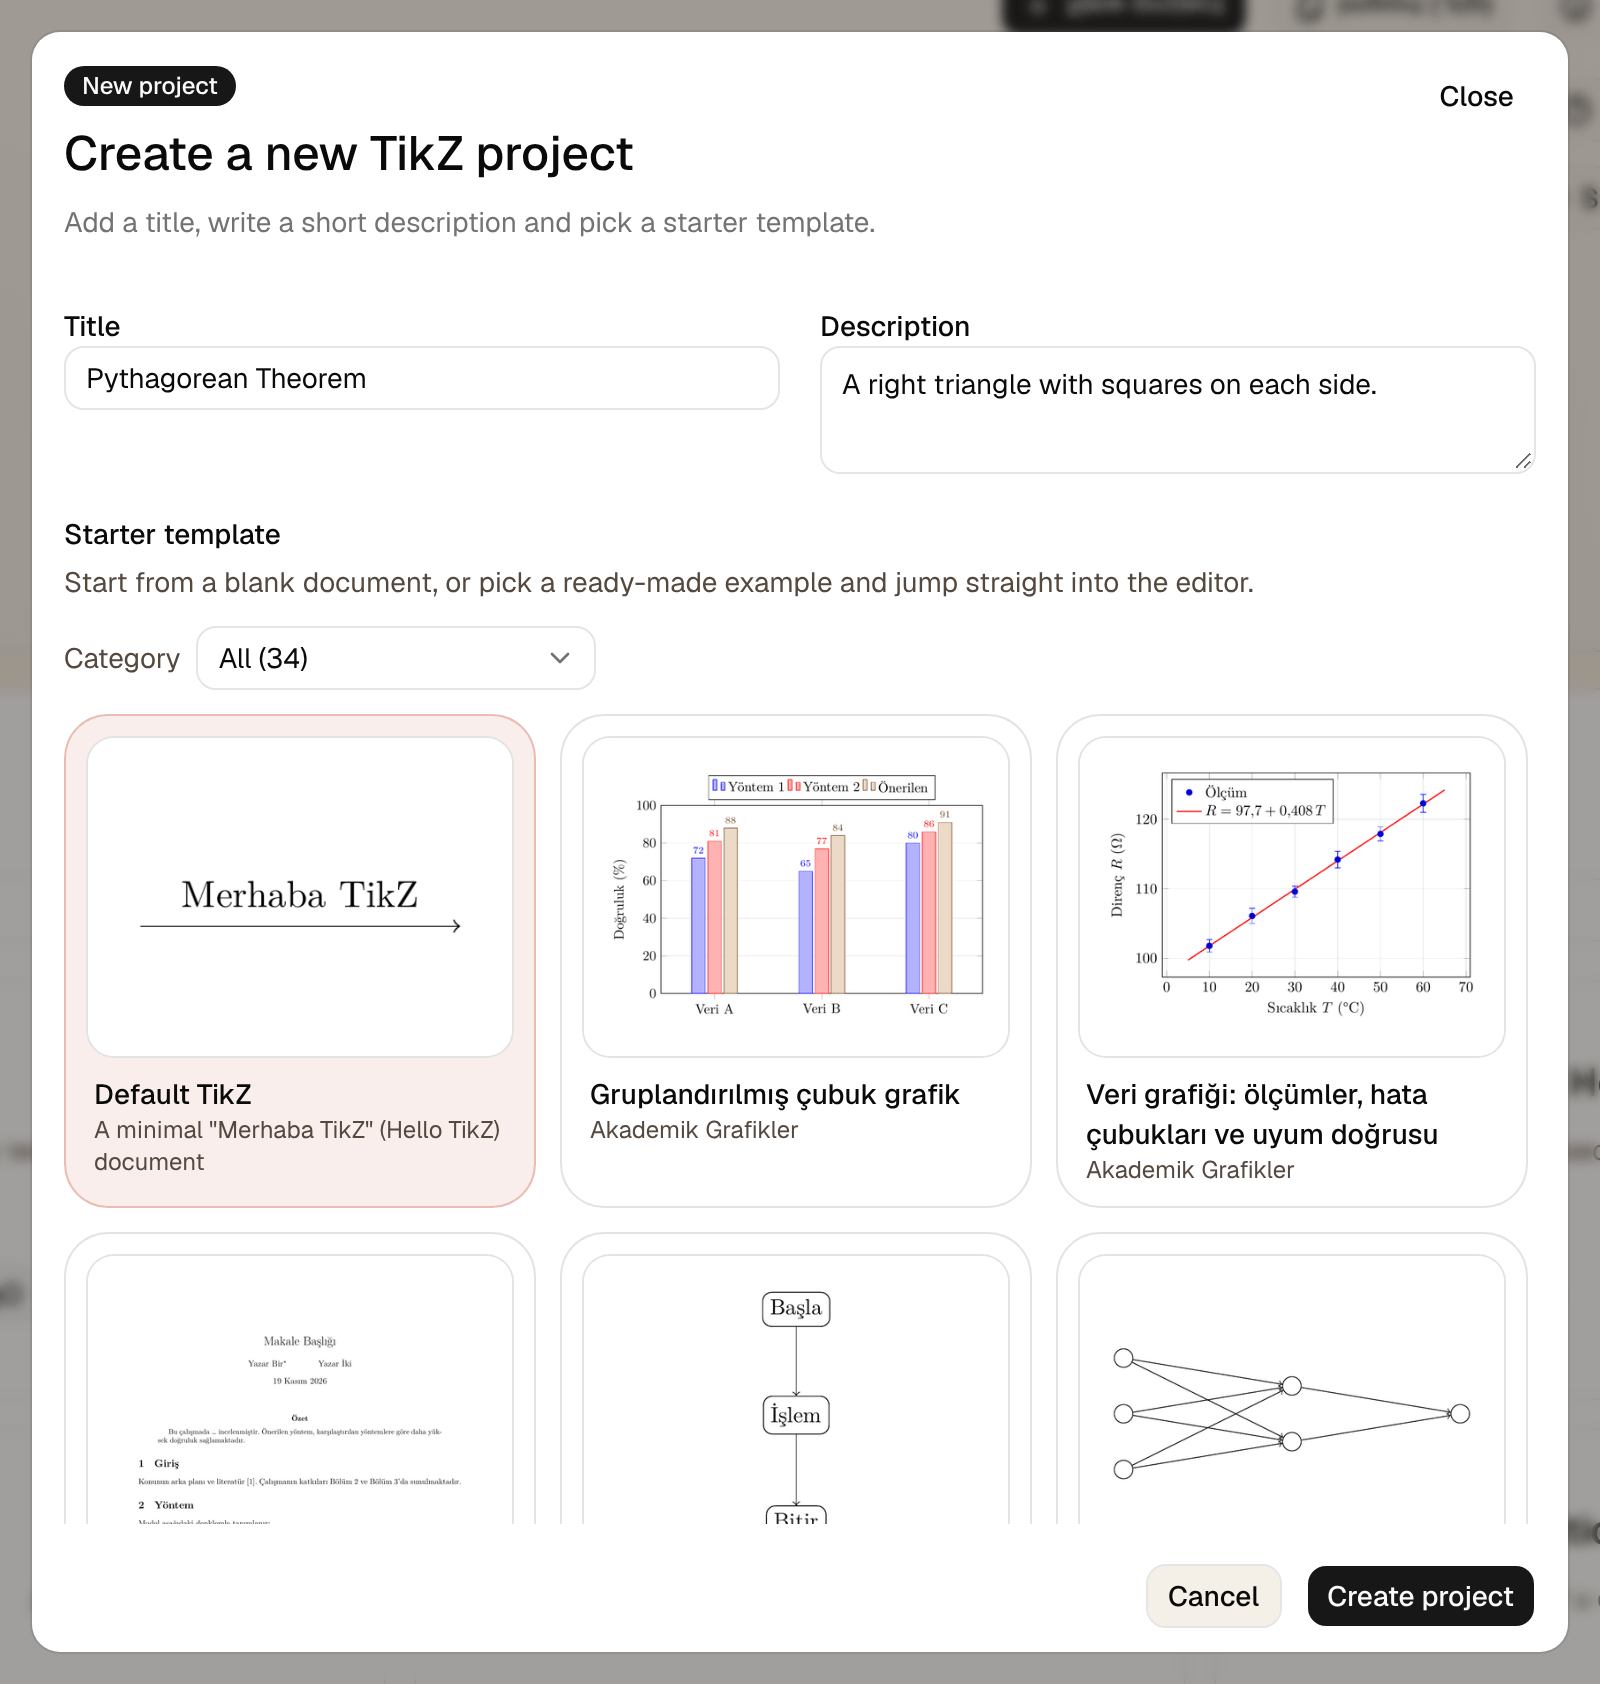
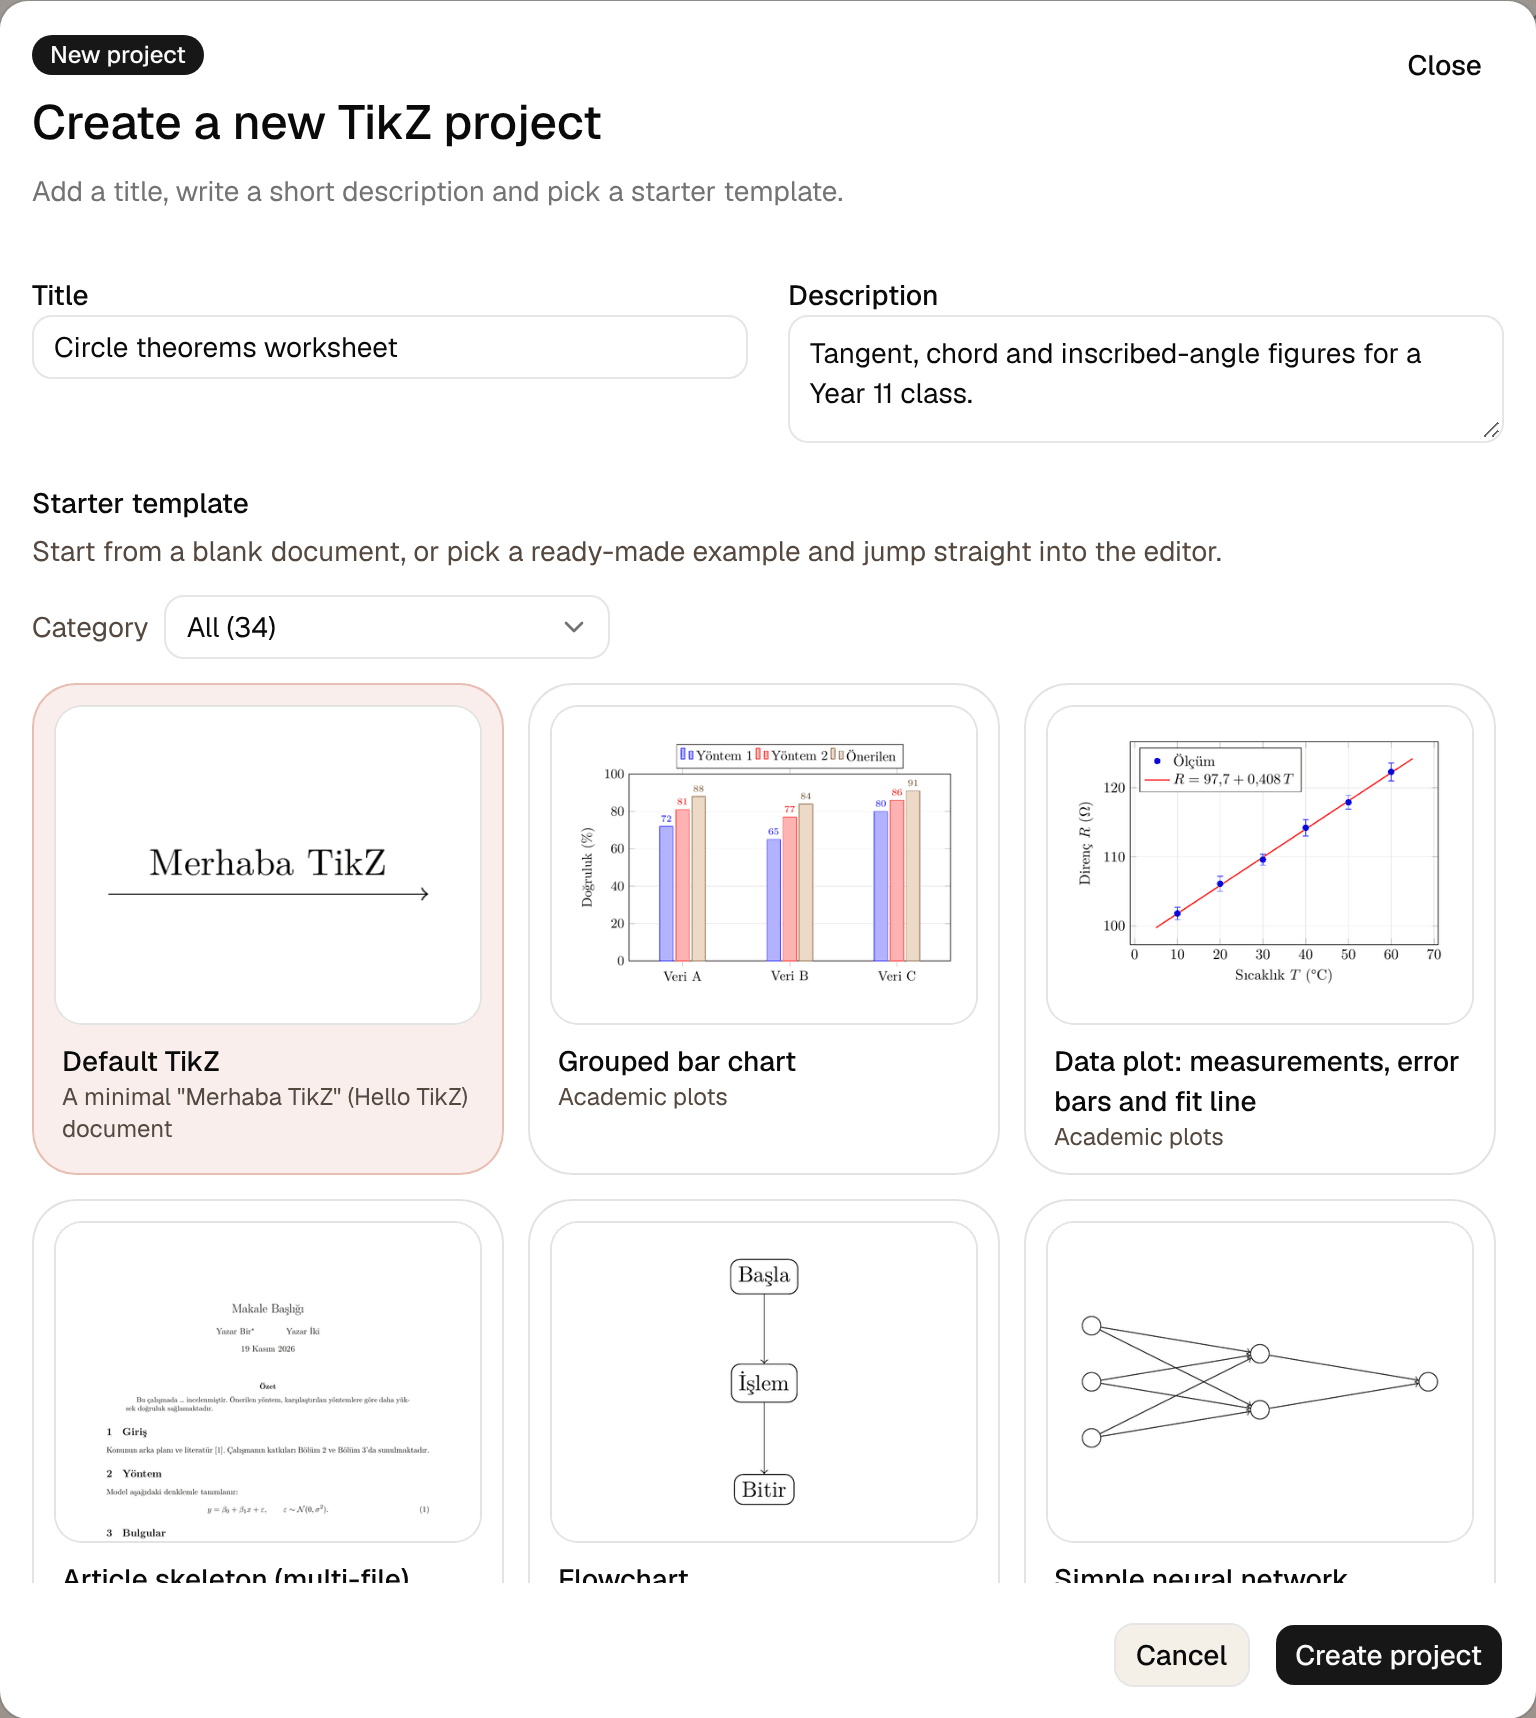
Şablon galerisi görüntüsü İngilizce şablon adlarıyla; dil notları güncellendi
#16 birleşti: resmi şablon ve parça adları İngilizce arayüzde İngilizce.
template-gallery.png yeniden çekildi; README, README.tr ve sitedeki
"şablon adları hâlâ Türkçe" notları kaldırıldı, yol haritası maddesi
tamamlandı olarak işaretlendi, Türkçe README'deki şablon sayısı 34 oldu.

Claude-Session: https://claude.ai/code/session_01F8xLMzHPRbAB1SaCZoJG8a

diff --git a/site/index.html b/site/index.html
@@ -238,8 +238,7 @@
 						<h2>A closer look</h2>
 						<p>
 							Real screenshots of the running app in its English interface, with
-							English example projects. The official template names are still in
-							Turkish.
+							English example projects.
 						</p>
 					</div>
 
@@ -266,16 +265,16 @@
 							<a href="screenshots/template-gallery.png">
 								<img
 									src="screenshots/template-gallery.png"
-									width="1600"
-									height="1684"
+									width="1536"
+									height="1718"
 									loading="lazy"
-									alt="New project dialog in the English interface with a title and description filled in and a grid of template thumbnails, the category filter set to all 34 templates. Some template names are still in Turkish."
+									alt="New project dialog in the English interface with a title and description filled in and a grid of template thumbnails, the category filter set to all 34 templates."
 								/>
 							</a>
 							<figcaption>
 								<strong>Template gallery.</strong> Every official template has a
-								preview thumbnail and can be filtered by category. Template names
-								are still in Turkish for now.
+								preview thumbnail and can be filtered by category; names and
+								categories follow the interface language.
 							</figcaption>
 						</figure>
 

diff --git a/README.md b/README.md
@@ -8,7 +8,7 @@
 
 TikZ Studio pairs a CodeMirror editor with a live PDF preview and a hardened Docker compiler (Tectonic, pdfLaTeX, XeLaTeX, LuaLaTeX, pdfLaTeX + Biber). It is built for anyone who writes TikZ/LaTeX: high-school and university students, teachers, and academics. Nothing needs to be installed on the user's machine.
 
-> **Language:** the interface and API error messages are available in Turkish and English, with a TR/EN switcher in the header (the first visit follows the browser language). The official template and snippet names are still in Turkish. Documents can be written in any language; the screenshots below show the English interface with English example projects.
+> **Language:** the interface and API error messages are available in Turkish and English, with a TR/EN switcher in the header (the first visit follows the browser language). Official template and snippet names, descriptions and categories follow the selected language; the LaTeX content of the templates (and the text in their preview images) is in Turkish. Documents can be written in any language; the screenshots below show the English interface with English example projects.
 >
 > **Status:** under active development. APIs and UI may change.
 
@@ -55,7 +55,7 @@ TikZ Studio pairs a CodeMirror editor with a live PDF preview and a hardened Doc
 
 | Template gallery | Dashboard |
 | --- | --- |
-| ![New project dialog in the English UI with template thumbnails and a category filter; some template names are still in Turkish](site/screenshots/template-gallery.png) | ![Dashboard with six English example projects](site/screenshots/dashboard.png) |
+| ![New project dialog in the English UI with template thumbnails, English template names and a category filter](site/screenshots/template-gallery.png) | ![Dashboard with six English example projects](site/screenshots/dashboard.png) |
 
 **Full LaTeX documents**: an article with sections, numbered equations and an embedded TikZ plot, compiled with pdfLaTeX.
 
@@ -372,7 +372,7 @@ npm run db:migrate
 - [x] Save project as template (project settings panel; unsaved edits are saved first)
 - [x] Turkish UI
 - [x] Multi-language UI: Turkish and English with a TR/EN switcher
-- [ ] English names for the official templates and snippets
+- [x] English names for the official templates and snippets
 - [x] Image to LaTeX (img2latex) with multiple provider support
 - [ ] Real-time collaboration (Y.js)
 - [ ] Mobile-first editor improvements

diff --git a/README.tr.md b/README.tr.md
@@ -18,7 +18,7 @@
 - 📚 **Derleme geçmişi** — geçmiş işlere göz at, arşivlenmiş PDF/SVG/PNG çıktılarını indir
 - 🔁 **Proje çatallama** — herhangi bir genel projeyi kendi çalışma alanına kopyala
 - 🧩 **Çok dosyalı şablonlar** — yeni proje, şablonun tüm dosyalarını (görseller ve `.sty` dahil) kopyalar; editörden kendi şablonlarınızı oluşturabilirsiniz
-- 📚 **Şablon kütüphanesi (33 şablon)** — Türkçe etiketli, gerektiğinde çok dosyalı ve Tectonic ile pdfLaTeX'te doğrulanmış:
+- 📚 **Şablon kütüphanesi (34 şablon)** — Türkçe etiketli, gerektiğinde çok dosyalı ve Tectonic ile pdfLaTeX'te doğrulanmış:
   - **Temel:** şekiller, düğümler, akış şemaları, ağaçlar, çizgeler
   - **Lise matematiği:** üçgen, çember, tkz-euclide, doğru/parabol/parçalı fonksiyon grafikleri, birim çember, sayı doğrusu, Venn, olasılık ağacı, katı cisimler, iki eğri arası alan, A–E şıklı sınav kâğıdı
   - **Üniversite ve akademik:** hata çubuklu veri grafiği ve uyum doğrusu, gruplandırılmış çubuk grafik, normal dağılım, 3B yüzey, vektörler/izdüşüm, değişmeli diyagramlar (tikz-cd), sonlu durum otomatı, kontrol sistemi blok diyagramı, Beamer sunumu, çok dosyalı makale iskeleti
@@ -30,7 +30,7 @@
 - 🚦 **Hız sınırlaması** — kullanıcı başına dakikada 5 derleme (veritabanı destekli, ek bağımlılık yok)
 - 💾 **Otomatik kaydetme** — geri çekilme ve görünür kayıt durumu ile
 - 🌗 **Açık/koyu tema** desteği (Tailwind v4)
-- 🌐 **Türkçe ve İngilizce arayüz** — arayüz ve API hata mesajları Türkçe ve İngilizce kullanılabilir, üst bardaki TR/EN düğmesiyle dil değiştirilir; resmi şablon ve parça adları şimdilik Türkçedir; Türkçe babel ve fontlar tüm motorlarda çalışır
+- 🌐 **Türkçe ve İngilizce arayüz** — arayüz ve API hata mesajları Türkçe ve İngilizce kullanılabilir, üst bardaki TR/EN düğmesiyle dil değiştirilir; resmi şablon ve parça adları, açıklamaları ve kategorileri de seçilen dilde görünür (şablonların LaTeX içeriği Türkçedir); Türkçe babel ve fontlar tüm motorlarda çalışır
 
 ---
 
